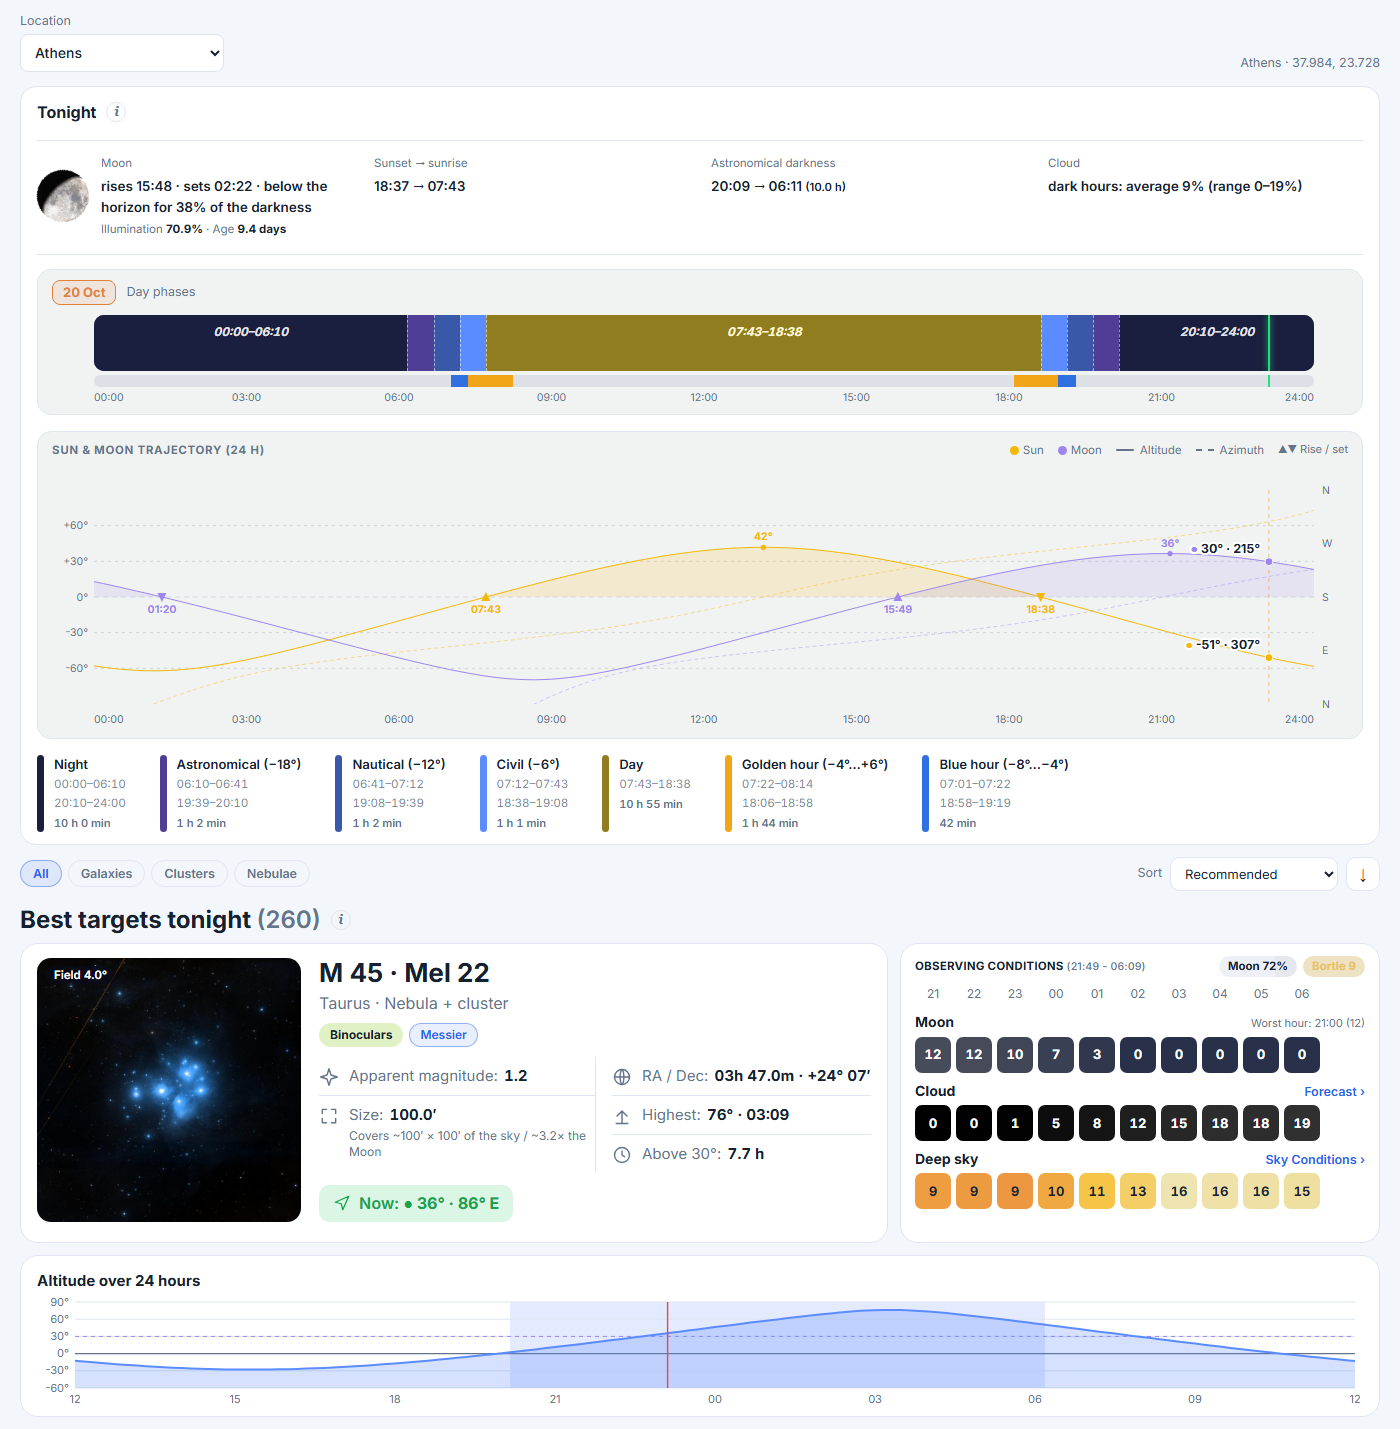
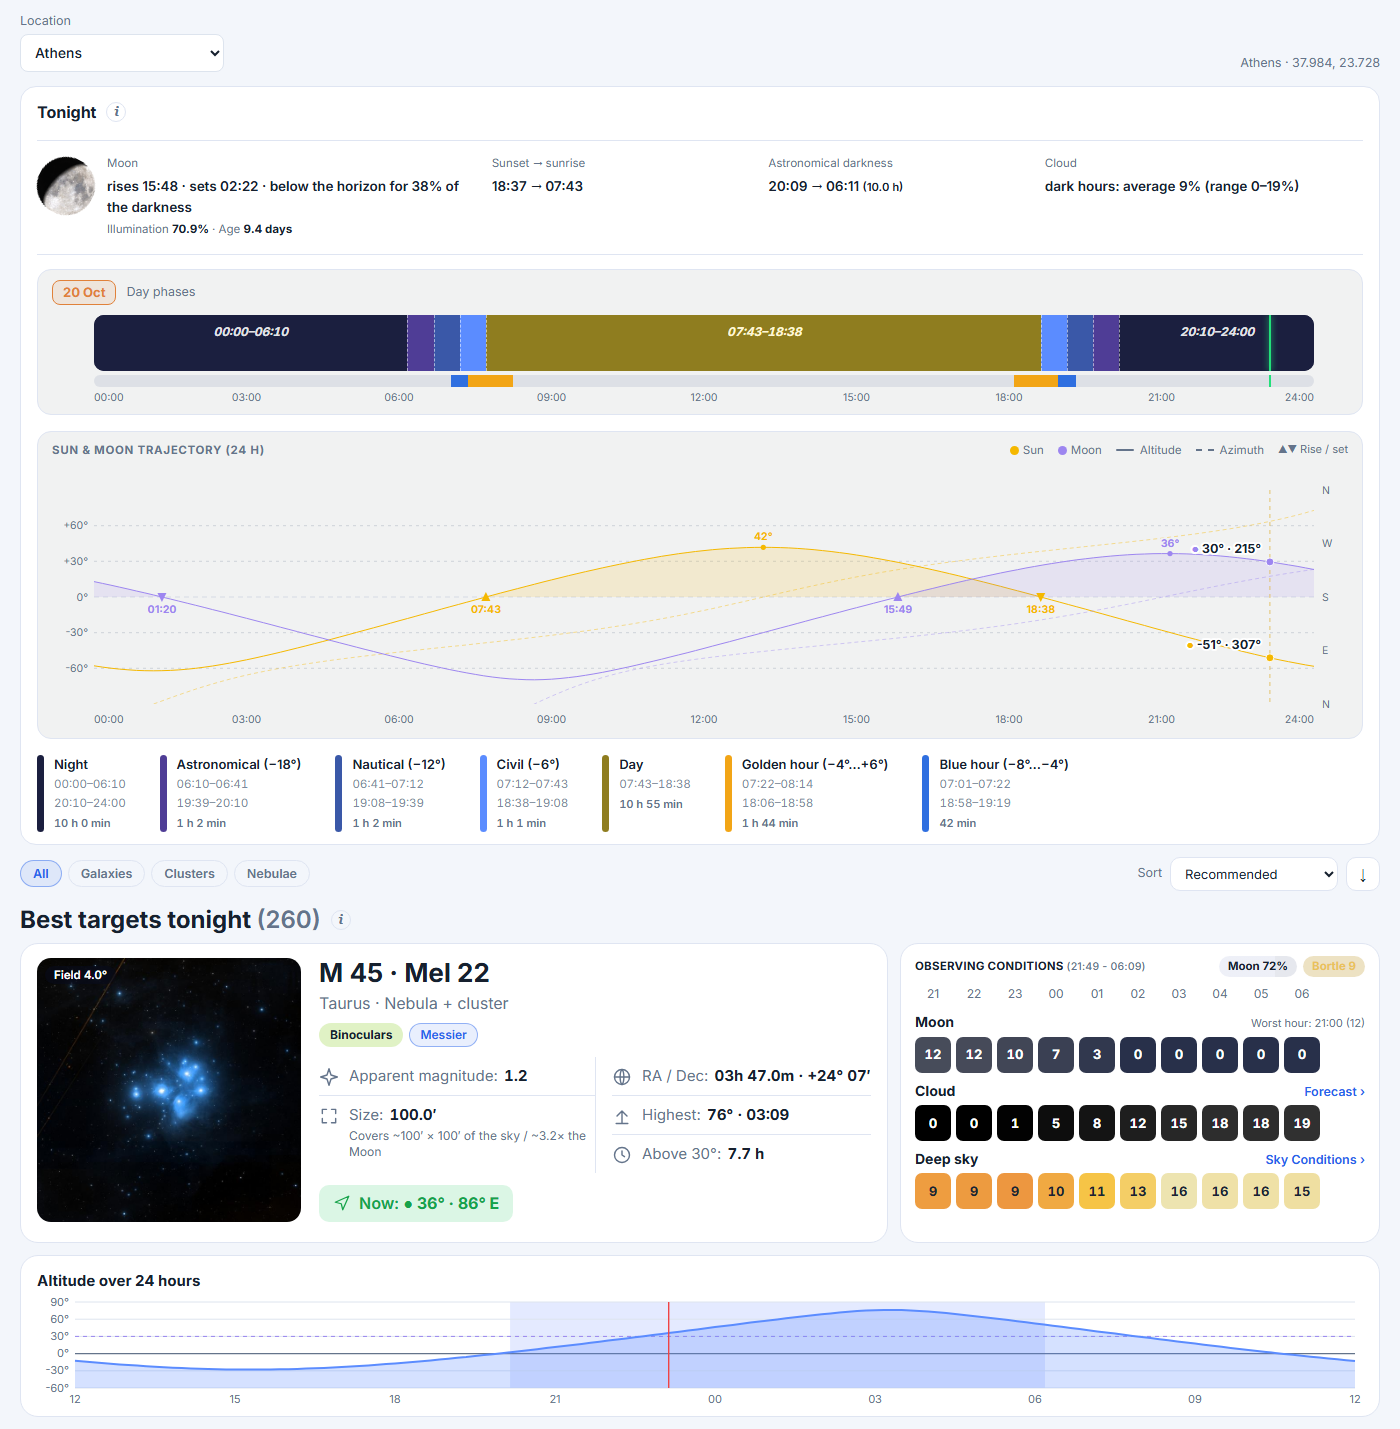
Tonight card: balanced column widths, top-aligned

diff --git a/index.html b/index.html
@@ -9,7 +9,7 @@
 <link rel="preconnect" href="https://fonts.googleapis.com"><link rel="preconnect" href="https://fonts.gstatic.com" crossorigin>
 <link rel="stylesheet" href="https://fonts.googleapis.com/css2?family=Inter:wght@400;500;600;700&display=swap&subset=greek">
 <link rel="stylesheet" href="https://unpkg.com/leaflet@1.9.4/dist/leaflet.css">
-<link rel="stylesheet" href="css/style.css?v=20261138">
+<link rel="stylesheet" href="css/style.css?v=20261139">
 </head>
 <body>
 <header class="topbar">
@@ -252,11 +252,11 @@
 <footer data-i18n-html="footer.html"></footer>
 
 <script src="https://unpkg.com/leaflet@1.9.4/dist/leaflet.js"></script>
-<script src="js/i18n.js?v=20261138"></script>
-<script src="js/icons.js?v=20261138"></script>
-<script src="js/app.js?v=20261138"></script>
-<script src="js/astro.js?v=20261138"></script>
-<script src="js/sunset.js?v=20261138"></script>
-<script src="js/dso.js?v=20261138"></script>
+<script src="js/i18n.js?v=20261139"></script>
+<script src="js/icons.js?v=20261139"></script>
+<script src="js/app.js?v=20261139"></script>
+<script src="js/astro.js?v=20261139"></script>
+<script src="js/sunset.js?v=20261139"></script>
+<script src="js/dso.js?v=20261139"></script>
 </body>
 </html>

diff --git a/css/style.css b/css/style.css
@@ -1035,3 +1035,7 @@ select, input[type=text], input[type=number], input[type=search] { font: inherit
 .sum-info .si-moon { display: flex; align-items: center; gap: 12px; }
 .si-moon .mw-cv { width: 52px; height: 52px; flex: none; }
 .sum-info .mw-st { display: block; margin-top: 3px; font-size: 11.5px; letter-spacing: 0; text-transform: none; color: var(--d-muted); } .mw-st em { font-style: normal; font-weight: 700; color: var(--d-text, var(--text)); }
+.sum-info { grid-template-columns: 1.7fr 1fr 1fr 1.25fr; align-items: start; }
+.sum-info .si-moon { align-items: flex-start; } .si-moon .mw-cv { width: 58px; height: 58px; margin-top: 2px; }
+@media (max-width: 900px) { .sum-info { grid-template-columns: repeat(2, minmax(0, 1fr)); } }
+@media (max-width: 520px) { .sum-info { grid-template-columns: 1fr; } }
